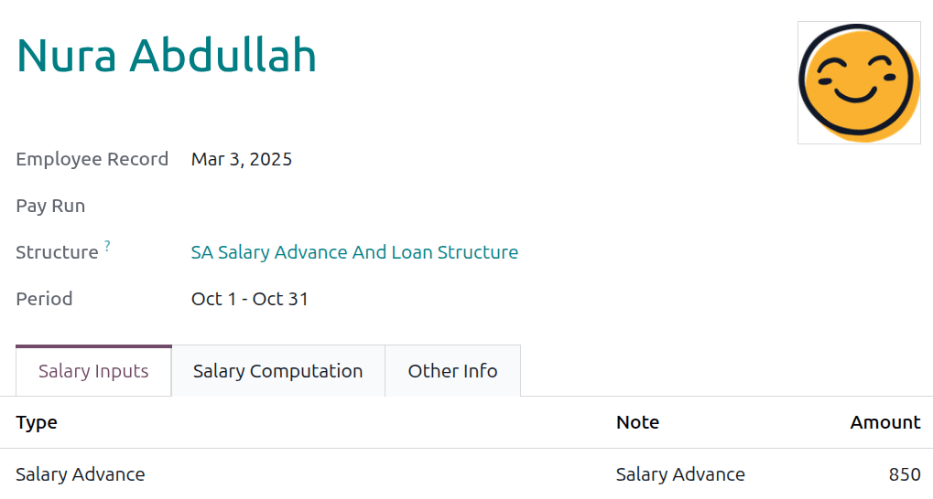
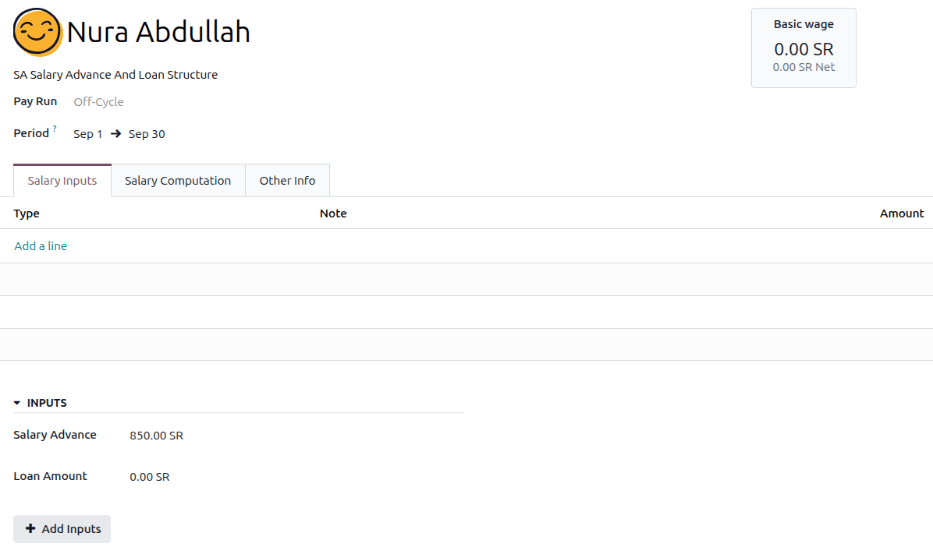
[IMP] Payroll - Saudi Arabia Salary Advance 19.2
closes odoo/documentation#19894

diff --git a/content/applications/hr/payroll/payroll_localizations/saudi_arabia.rst b/content/applications/hr/payroll/payroll_localizations/saudi_arabia.rst
@@ -633,16 +633,16 @@ Configure the following fields on the payslip:
 
 - :guilabel:`Structure`: Using the drop-down menu, select :guilabel:`SA Salary Advance And Loan
   Structure`.
+- :guilabel:`Period`: Set the start and end date for the payslip in the two corresponding fields
+  using the calendar selectors.
 
-Next, click :guilabel:`Add a line` in the :guilabel:`Salary Inputs` tab. Select :guilabel:`Salary
-Advance` for the :guilabel:`Type`. Next, enter any relevant description in the :guilabel:`Notes`
-field, such as `Advance for auto repair`. Last, enter the amount being advanced in the
-:guilabel:`Amount` field.
+Next, click into the *Salary Inputs* tab, and in the *Inputs* section, enter the amount being
+advanced in the :guilabel:`Salary Advance` field.
 
-Once these fields have been configured, click :guilabel:`Compute Sheet`, then click
-:guilabel:`Create Draft Entry`, and click :guilabel:`OK` in the confirmation pop-up window. Click
-:guilabel:`Pay` to mark the payment as paid, then click :guilabel:`Create Payment Report` to
-:ref:`generate the WPS report <payroll/reports_saudi>`.
+Once the payslip is configured, click :guilabel:`Compute Sheet`, then click :guilabel:`Create Draft
+Entry`, and click :guilabel:`OK` in the confirmation pop-up window. Click :guilabel:`Pay` to mark
+the payment as paid, then click :guilabel:`Create Payment Report` to :ref:`generate the WPS report
+<payroll/reports_saudi>`.
 
 .. image:: saudi_arabia/advance.png
    :alt: A configured loan payslip.
